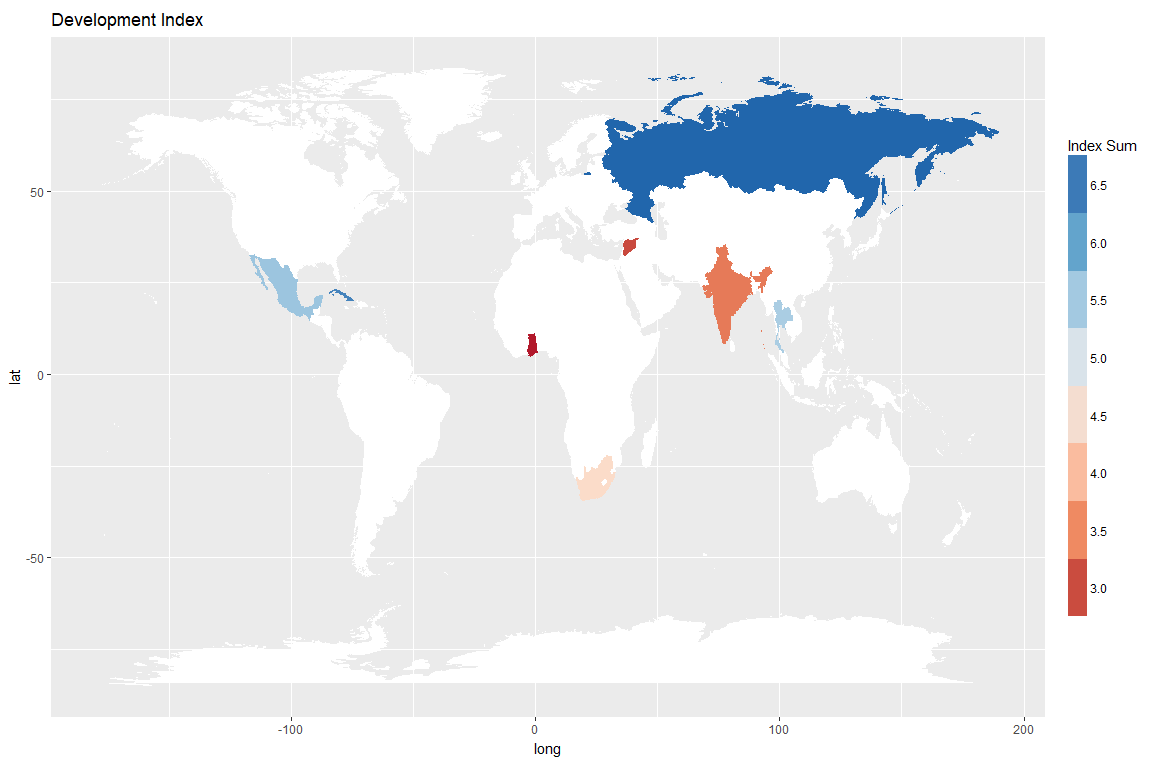
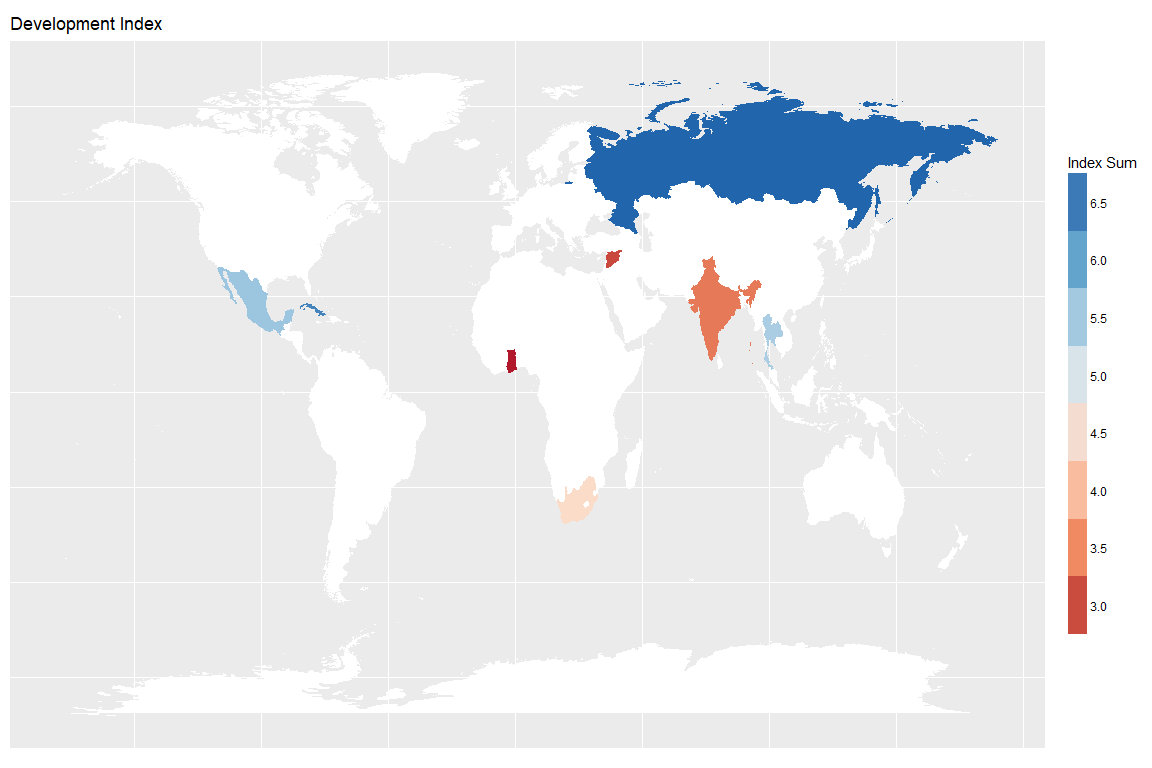
all but weights

diff --git a/HW/HW1.md b/HW/HW1.md
@@ -306,7 +306,7 @@ The example format that we have seen looks like so:
 
 ![Alt text](https://github.com/DocSynaptogenesis/Development-Economics/blob/master/HW/images/trial_run_screencap.png)
 
-To match this we need to convert our `data_frame` to a `matrix`, transpose the data, and store in a variable that we'll call `Score`.
+To match this we need to convert our `data_frame` to a `matrix`, transpose the data, and store it in a variable that we'll call `Score`.
 
 ``` r
 Score <- Score %>%
@@ -354,7 +354,7 @@ pander(Score)
 </tbody>
 </table>
 
-We're then going to detach the `Country` row so that we can bind the `sum` row back to our data.
+We're then going to detach the `Country` row so that we can bind the `sum` row back to our summary table.
 
 ``` r
 Score <- Score[-1, ]
@@ -583,7 +583,14 @@ index_map <- ggplot() +
                        direction = 1) +
   coord_fixed(ratio = 1.5) +
   guides(fill = guide_legend(keywidth = 1, keyheight = 3, reverse = TRUE)) +
-  ggtitle("Development Index")
+  ggtitle("Development Index") +
+  theme(axis.title.x = element_blank(),
+        axis.text.x = element_blank(),
+        axis.ticks.x = element_blank(),
+        axis.title.y = element_blank(),
+        axis.text.y = element_blank(),
+        axis.ticks.y = element_blank()
+        )
 ```
 
 ``` r
